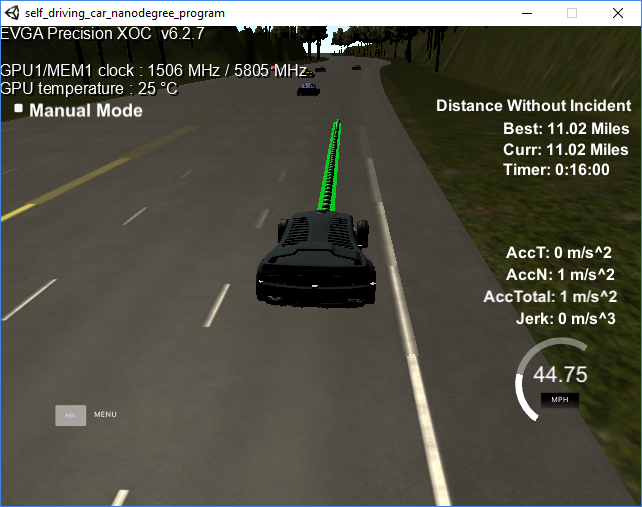
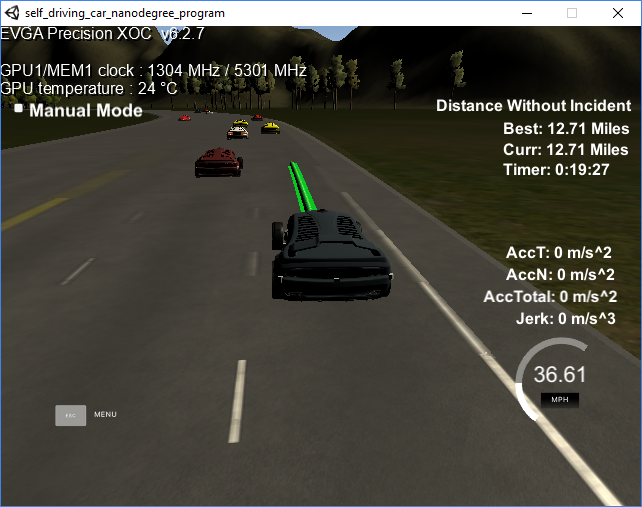
Institute JMT lane changes

diff --git a/src/main.cpp b/src/main.cpp
@@ -43,6 +43,8 @@ int main() {
   int targLane = 1; //target lane (0, 1 , 2)
   bool commitChangeL = false; //persistent vectors for committing to lane change
   bool commitChangeR = false;
+  double laneChangeOrigS;
+  vector<double> JMTchange;
   
 
   std::ifstream in_map_(map_file_.c_str(), std::ifstream::in);
@@ -67,12 +69,12 @@ int main() {
   }
 #ifdef UWS_VCPKG  //windows
   h.onMessage([&map_waypoints_x, &map_waypoints_y, &map_waypoints_s,
-    &map_waypoints_dx, &map_waypoints_dy, &commitChangeL, &commitChangeR, &prevX, &prevY, &prevAcc, &targLane, &lastChange, &timer]
+    &map_waypoints_dx, &map_waypoints_dy, &commitChangeL, &commitChangeR, &prevX, &prevY, &prevAcc, &targLane, &lastChange, &timer, &laneChangeOrigS, &JMTchange]
     (uWS::WebSocket<uWS::SERVER> *ws, char *data, size_t length,
       uWS::OpCode opCode) {
 #else //unix/mac
   h.onMessage([&map_waypoints_x, &map_waypoints_y, &map_waypoints_s,
-    &map_waypoints_dx, &map_waypoints_dy, &commitChangeL, &commitChangeR, &prevX, &prevY, &prevAcc, &targLane, &lastChange, &timer]
+    &map_waypoints_dx, &map_waypoints_dy, &commitChangeL, &commitChangeR, &prevX, &prevY, &prevAcc, &targLane, &lastChange, &timer, &laneChangeOrigS, &JMTchange]
     (uWS::WebSocket<uWS::SERVER> ws, char *data, size_t length,
       uWS::OpCode opCode) {
 #endif
@@ -380,17 +382,28 @@ int main() {
             changeLeftFeas = false;
             changeRightFeas = false;
           }
+          double timeTarg = 2.5;
           if ((changeLeftFeas) && (!commitChangeR)&&(!commitChangeL)) { //if lane change left is feasible
             if (lane > 0) {
               targLane=lane-1; //lane change
+              laneChangeOrigS = pos_s;
               commitChangeL = true; //commit to left lane change
+              vector<double>startVector = { pos_d, 0.0, 0.0 };
+              vector<double>endVector = { targLane*4.0 + 2.0, 0, 0 };
+              
+              JMTchange = JMT(startVector, endVector, timeTarg);
             }
 
           }
           else if ((changeRightFeas) && (!commitChangeL) && (!commitChangeR)) { //if lane change right is feasible
             if (lane < 2) {
               targLane=lane+1; //lane change
+              laneChangeOrigS = pos_s;
               commitChangeR = true; //commit to change
+              vector<double>startVector = { pos_d, 0.0, 0.0 };
+              vector<double>endVector = { targLane*4.0 + 2.0, 0, 0 };
+              
+              JMTchange = JMT(startVector, endVector, timeTarg);
             }
 
           }
@@ -440,7 +453,7 @@ int main() {
             double deltaS = tempS - lastS;
             double tempD = pos_d + shift; //d control point
             if ((commitChangeL) || (commitChangeR)) { //if committed to change lanes
-              if (commitChangeL) {
+              /*if (commitChangeL) {
                 //shift spline to left
                 tempD = lastD - 4.0 * i / projSteps;
                 if (tempD < (targLane * 4 + 2.0)) {
@@ -454,7 +467,24 @@ int main() {
                   tempD = targLane * 4 + 2.0;  //center in lane
                 }
 
+              }*/
+              
+              
+              double timeTemp = (tempS - laneChangeOrigS) / (speed + 5);
+              if (tempS < laneChangeOrigS) {
+                timeTemp = (tempS + maxDistTravel * 2 - laneChangeOrigS) / (speed + 5);
               }
+              if (timeTemp < timeTarg) {
+                //s(t) = a_0 + a_1 * t + a_2 * t**2 + a_3 * t**3 + a_4 * t**4 + a_5 * t**5
+                tempD = 0;
+                for (int jmtCoeff = 0; jmtCoeff < 6; ++jmtCoeff) {
+                  tempD += JMTchange[jmtCoeff] * pow(timeTemp, jmtCoeff);
+                }
+              }
+              else {
+                tempD = targLane * 4.0 + 2.0;
+              }
+              
               
               
             }
@@ -493,7 +523,15 @@ int main() {
             bool coastUp = (-acc_tan >= sqrt(6.0 * abs(speed - ref_speed))); //slowly release brakes
             if (underspeed) {
               if ((!overAcc) && (!coastDown)) {
-                acc_tan = std::min(3.0, acc_tan + ts*7.0); //cap acc at 3 m/s^2, jerk at 7 m/s^3
+                if ((!commitChangeL) && (!commitChangeR)) {
+                  acc_tan = std::min(3.0, acc_tan + ts * 7.0); //cap acc at 3 m/s^2, jerk at 7 m/s^3
+                }
+                else if (acc_tan < 0) {
+                  acc_tan = std::min(3.0, acc_tan + ts * 7.0);
+                }
+                else {
+                  acc_tan = std::max(0.0, acc_tan - ts * 7.0);
+                }
               }
               
               if (overAcc) {
@@ -601,7 +639,7 @@ int main() {
             pos_s = frenetPos[0];
             pos_d = frenetPos[1];
 
-            if ((commitChangeL||commitChangeR)&&(abs(pos_d - targLane * 4 - 2.0) < 0.2)) {
+            if ((commitChangeL||commitChangeR)&&(abs(pos_d - targLane * 4 - 2.0) < 0.1)) {
               commitChangeL = false; //completion of lane change
               commitChangeR = false;
               timer = clock();

diff --git a/src/helpers.h b/src/helpers.h
@@ -5,10 +5,14 @@
 #include <string>
 #include <vector>
 #include <numeric>
+#include "Eigen-3.3/Eigen/Core"
+#include "Eigen-3.3/Eigen/QR"
 
 // for convenience
 using std::string;
 using std::vector;
+using Eigen::MatrixXd;
+using Eigen::VectorXd;
 
 // Checks if the SocketIO event has JSON data.
 // If there is data the JSON object in string format will be returned,
@@ -232,6 +236,56 @@ vector<double> kinematics(vector<double> xPath, vector<double> yPath, double& ts
   }
     
   return { speedVect[len - 2],theta,speedVect[len - 3],acc_tan };
+}
+
+vector<double> JMT(vector<double> &start, vector<double> &end, double T) {
+  /**
+   * Calculate the Jerk Minimizing Trajectory that connects the initial state
+   * to the final state in time T.
+   *
+   * @param start - the vehicles start location given as a length three array
+   *   corresponding to initial values of [s, s_dot, s_double_dot]
+   * @param end - the desired end state for vehicle. Like "start" this is a
+   *   length three array.
+   * @param T - The duration, in seconds, over which this maneuver should occur.
+   *
+   * @output an array of length 6, each value corresponding to a coefficent in
+   *   the polynomial:
+   *   s(t) = a_0 + a_1 * t + a_2 * t**2 + a_3 * t**3 + a_4 * t**4 + a_5 * t**5
+   *
+   * EXAMPLE
+   *   > JMT([0, 10, 0], [10, 10, 0], 1)
+   *     [0.0, 10.0, 0.0, 0.0, 0.0, 0.0]
+   */
+  double startX = start[0];
+  double startXdot = start[1];
+  double startXdot_dot = start[2];
+  double endX = end[0];
+  double endXdot = end[1];
+  double endXdot_dot = end[2];
+
+  double T2 = pow(T, 2);
+  double T3 = pow(T, 3);
+  double T4 = pow(T, 4);
+  double T5 = pow(T, 5);
+
+  MatrixXd A(3, 3);
+  A << T3, T4, T5,
+    3 * T2, 4 * T3, 5 * T4,
+    6 * T, 12 * T2, 20 * T3;
+  //std::cout<<A<<std::endl;
+  double b1 = endX - (startX + startXdot * T + 0.5*startXdot_dot*T2);
+  double b2 = endXdot - (startXdot + startXdot_dot * T);
+  double b3 = endXdot_dot - startXdot_dot;
+
+  VectorXd b(3);
+  b << b1, b2, b3;
+  //std::cout<<b<<std::endl;
+  VectorXd x(3);
+  x = A.colPivHouseholderQr().solve(b);
+  //std::cout<<x<<std::endl;
+
+  return { startX,startXdot,startXdot_dot / 2,x[0],x[1],x[2] };
 }
 
 
